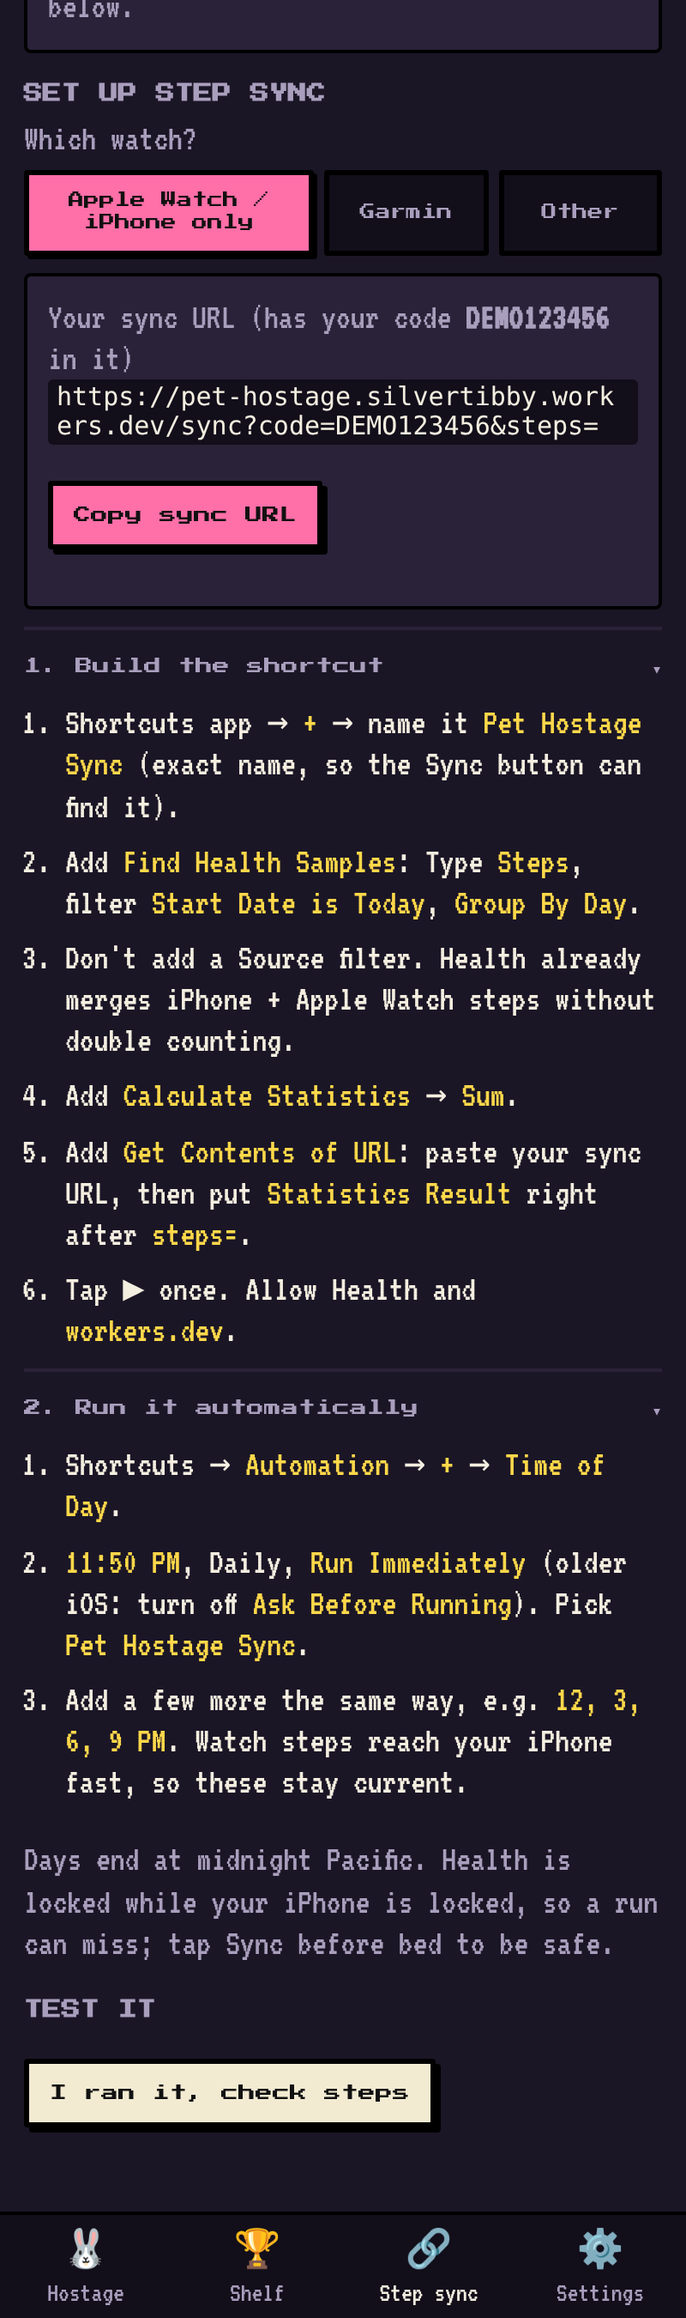
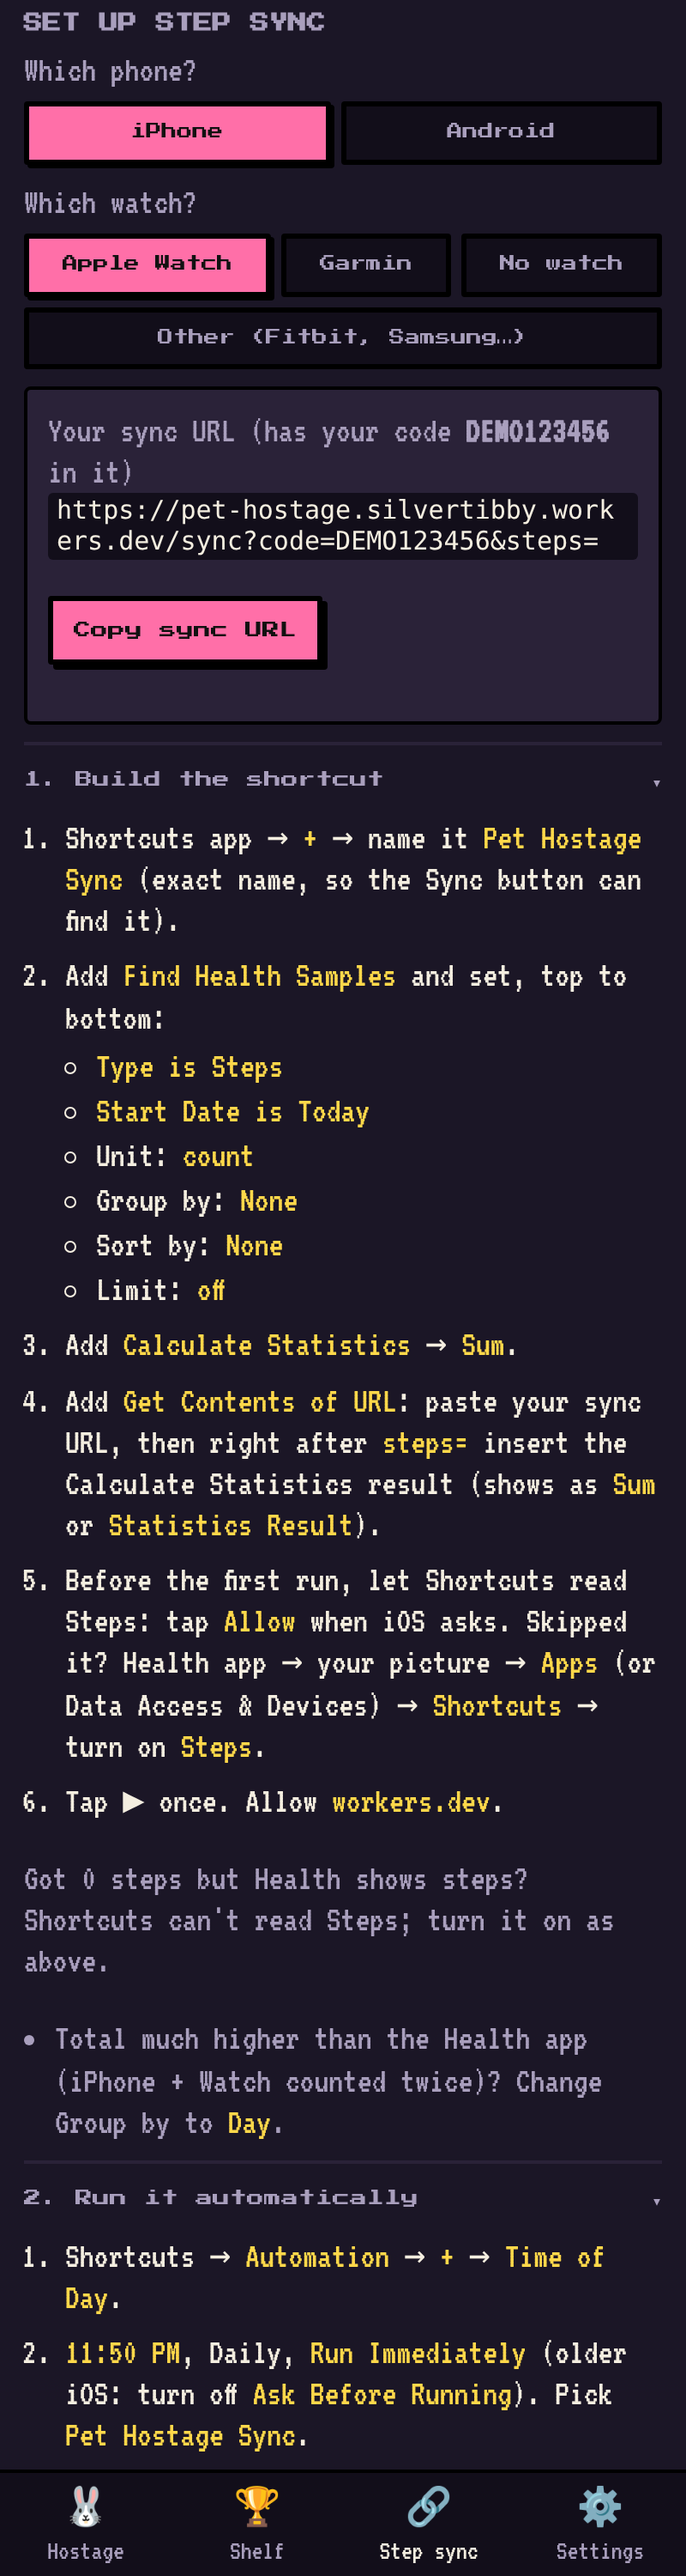
v0.4.7: iPhone Shortcut steps spell out every Find Health Samples setting (Unit count, Group by None…), Steps permission step + troubleshooting; APPLE-WATCH-SETUP.md updated

diff --git a/app/app.js b/app/app.js
@@ -1,7 +1,7 @@
 import { drawScene, drawDeath, drawShelfPet, raccoon, blit, hitBoxes, VIEW_W, VIEW_H, DEATH_LEN, SPECIES } from './art.js';
 
 // ---- tunables ----
-const VERSION = 'v0.4.6';
+const VERSION = 'v0.4.7';
 const GOAL = 10000, FINAL_GOAL = 15000; // the server decides; these are only for demos
 const WORKER = 'https://pet-hostage.silvertibby.workers.dev';
 const APP_URL = 'https://silvertibby.github.io/pet-hostage/';
@@ -383,11 +383,11 @@ function watchPick() {
 }
 function recipeHtml(w) {
   const open = state.lastSync ? '' : ' open';
-  const filter = {
-    apple: `<li>Don't add a Source filter. Health already merges iPhone + Apple Watch steps without double counting.</li>`,
-    none: `<li>Don't add a Source filter.</li>`,
-    garmin: `<li>Also add the filter <b>Source is Connect</b> (Garmin's app), so iPhone steps aren't counted twice.</li>`,
-    other: `<li>No Source filter to start. If your total looks doubled (phone + watch app), add <b>Source is</b> your watch's app.</li>`,
+  const src = w === 'garmin' ? `<li><b>Source is Connect</b> (Garmin's app, so iPhone steps aren't counted twice)</li>` : '';
+  const tip = {
+    apple: `<li>Total much higher than the Health app (iPhone + Watch counted twice)? Change Group by to <b>Day</b>.</li>`, none: '',
+    garmin: '',
+    other: `<li>Total higher than the Health app? Add <b>Source is</b> your watch's app.</li>`,
   }[w];
   return `
     ${w === 'garmin' ? `<details class="more"${open}><summary>0. Garmin → Apple Health</summary>
@@ -395,12 +395,15 @@ function recipeHtml(w) {
     <details class="more"${open}><summary>1. Build the shortcut</summary>
     <ol class="guide">
       <li>Shortcuts app → <b>+</b> → name it <b>${SHORTCUT_NAME}</b> (exact name, so the Sync button can find it).</li>
-      <li>Add <b>Find Health Samples</b>: Type <b>Steps</b>, filter <b>Start Date is Today</b>, <b>Group By Day</b>.</li>
-      ${filter}
+      <li>Add <b>Find Health Samples</b> and set, top to bottom:
+        <ul class="guide"><li><b>Type is Steps</b></li><li><b>Start Date is Today</b></li>${src}<li>Unit: <b>count</b></li><li>Group by: <b>None</b></li><li>Sort by: <b>None</b></li><li>Limit: <b>off</b></li></ul></li>
       <li>Add <b>Calculate Statistics</b> → <b>Sum</b>.</li>
-      <li>Add <b>Get Contents of URL</b>: paste your sync URL, then put <b>Statistics Result</b> right after <b>steps=</b>.</li>
-      <li>Tap ▶ once. Allow Health and <b>workers.dev</b>.</li>
-    </ol></details>
+      <li>Add <b>Get Contents of URL</b>: paste your sync URL, then right after <b>steps=</b> insert the Calculate Statistics result (shows as <b>Sum</b> or <b>Statistics Result</b>).</li>
+      <li>Before the first run, let Shortcuts read Steps: tap <b>Allow</b> when iOS asks. Skipped it? Health app → your picture → <b>Apps</b> (or Data Access &amp; Devices) → <b>Shortcuts</b> → turn on <b>Steps</b>.</li>
+      <li>Tap ▶ once. Allow <b>workers.dev</b>.</li>
+    </ol>
+    <p class="dim">Got 0 steps but Health shows steps? Shortcuts can't read Steps; turn it on as above.</p>
+    ${tip ? `<ul class="guide dim">${tip}</ul>` : ''}</details>
     <details class="more"${open}><summary>2. Run it automatically</summary>
     <ol class="guide">
       <li>Shortcuts → <b>Automation</b> → <b>+</b> → <b>Time of Day</b>.</li>

diff --git a/app/style.css b/app/style.css
@@ -54,7 +54,9 @@ code, .code { font-family: ui-monospace, Menlo, monospace; font-size: 15px; back
 .big-code { font-family:'Press Start 2P', monospace; font-size: 16px; letter-spacing: 2px; color: var(--y, #ffd84a); }
 ol.guide { padding-left: 24px; margin: 6px 0; }
 ol.guide li { margin: 8px 0; }
-ol.guide b { color: #ffd84a; font-weight: normal; }
+ol.guide b, ul.guide b { color: #ffd84a; font-weight: normal; }
+ul.guide { padding-left: 18px; margin: 4px 0; }
+ul.guide li { margin: 2px 0; }
 input[type=text], input[type=number] { font: inherit; font-size: 20px; background:#120e1a; color: var(--ink); border: 2px solid #5a4a70; padding: 6px 8px; border-radius: 3px; width: 100%; }
 label { display:block; margin: 10px 0 4px; color: var(--dim); }
 .grave { display:flex; gap: 8px; align-items:center; padding: 6px 0; border-bottom: 1px dashed #3e3256; }

diff --git a/app/sw.js b/app/sw.js
@@ -1,5 +1,5 @@
 // Pet Hostage service worker: push notifications + network-first offline cache.
-const CACHE = 'ph-v0.4.6';
+const CACHE = 'ph-v0.4.7';
 const ASSETS = ['./', 'index.html', 'style.css', 'app.js', 'art.js', 'icons/icon-192.png'];
 self.addEventListener('install', e => { e.waitUntil(caches.open(CACHE).then(c => c.addAll(ASSETS)).catch(() => {})); self.skipWaiting(); });
 self.addEventListener('activate', e => { e.waitUntil(caches.keys().then(ks => Promise.all(ks.filter(k => k !== CACHE).map(k => caches.delete(k)))).then(() => self.clients.claim())); });

diff --git a/APPLE-WATCH-SETUP.md b/APPLE-WATCH-SETUP.md
@@ -4,16 +4,26 @@ You get your own pet and raccoon. A small Shortcut sends your daily step total f
 
 1. Get your pet. On your iPhone, open https://silvertibby.github.io/pet-hostage/ in Safari and tap "Accept the terms". Then tap Share → Add to Home Screen, and open Pet Hostage from your home screen from now on.
 
-2. Copy your sync URL. In Pet Hostage, go to Step sync, pick "Apple Watch / iPhone only", and tap "Copy sync URL". Your code is already in it.
+2. Copy your sync URL. In Pet Hostage, go to Step sync, pick iPhone and Apple Watch, and tap "Copy sync URL". Your code is already in it.
 
 3. Build the shortcut. Open the Shortcuts app, tap +, and name it exactly: Pet Hostage Sync
-   a. Add "Find Health Samples". Set Type to Steps, add the filter "Start Date is Today", and set Group By to Day. Don't add a Source filter: Apple Health already combines iPhone and Apple Watch steps without counting them twice.
+   a. Add "Find Health Samples" and set, top to bottom:
+      - Type is Steps
+      - Start Date is Today
+      - Unit: count
+      - Group by: None
+      - Sort by: None
+      - Limit: off
    b. Add "Calculate Statistics" and set it to Sum.
-   c. Add "Get Contents of URL". Paste your sync URL, then tap right after "steps=" and insert the "Statistics Result" variable.
-   d. Tap ▶ once. Allow Health access and allow it to connect to workers.dev.
+   c. Add "Get Contents of URL". Paste your sync URL, then tap right after "steps=" and insert the Calculate Statistics result (it shows as "Sum" or "Statistics Result").
+   d. Before the first run, let Shortcuts read Steps: when iOS asks, tap Allow. If you skipped it: Health app → your profile picture → Apps (or Data Access & Devices) → Shortcuts → turn on Steps.
+   e. Tap ▶ once and allow it to connect to workers.dev.
 
 4. Make it run by itself. In Shortcuts, open Automation → + → Time of Day. Set 11:50 PM, Daily, choose "Run Immediately" (on older iOS, turn off "Ask Before Running"), and pick Pet Hostage Sync. Add a few more the same way (e.g. 12 PM, 3 PM, 6 PM, 9 PM) so your pet sees your progress during the day.
 
-5. Check it worked. In Pet Hostage → Step sync, tap "I ran it, check steps".
+5. Check it worked. In Pet Hostage → Step sync, tap "Check steps".
 
-Good to know: days end at midnight Pacific time. iPhone locks Health data while the phone is locked, so an automatic run can occasionally miss. Tapping Sync on the Pet Hostage home screen before bed is a safe habit.
+Troubleshooting
+- Got 0 steps but Health shows steps? Shortcuts can't read Steps. Turn it on as in step 3d.
+- Total much higher than the Health app (iPhone and Watch counted twice)? Change Group by to Day.
+- Days end at midnight Pacific time. iPhone locks Health data while the phone is locked, so an automatic run can occasionally miss. Tapping Sync on the Pet Hostage home screen before bed is a safe habit.

diff --git a/CHANGELOG.md b/CHANGELOG.md
@@ -1,5 +1,8 @@
 # Pet Hostage changelog
 
+## v0.4.7 (2026-10-11)
+- Clearer iPhone Shortcut steps: every setting spelled out, plus how to let Shortcuts read your steps.
+
 ## v0.4.6 (2026-10-10)
 - Step sync asks which phone and which watch you have, then shows just those steps.
 
